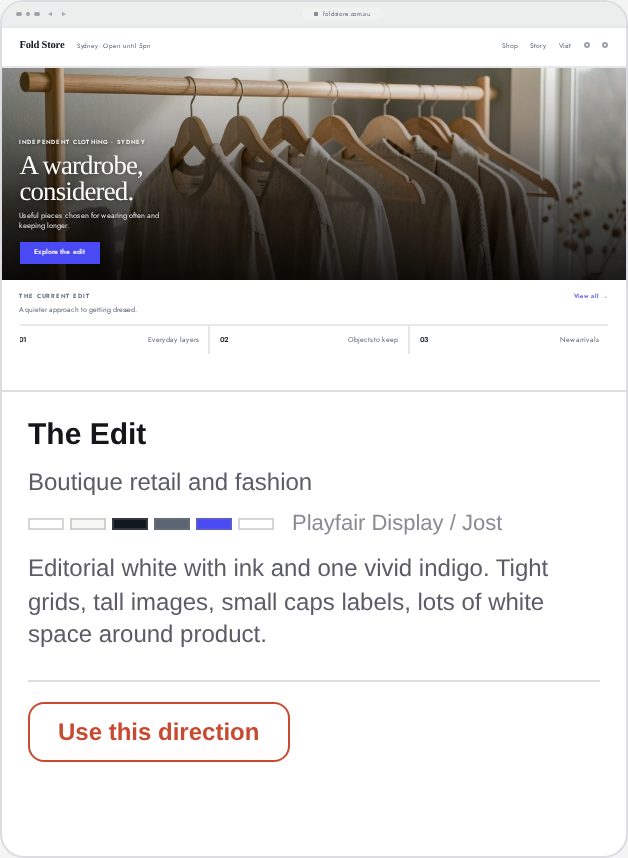
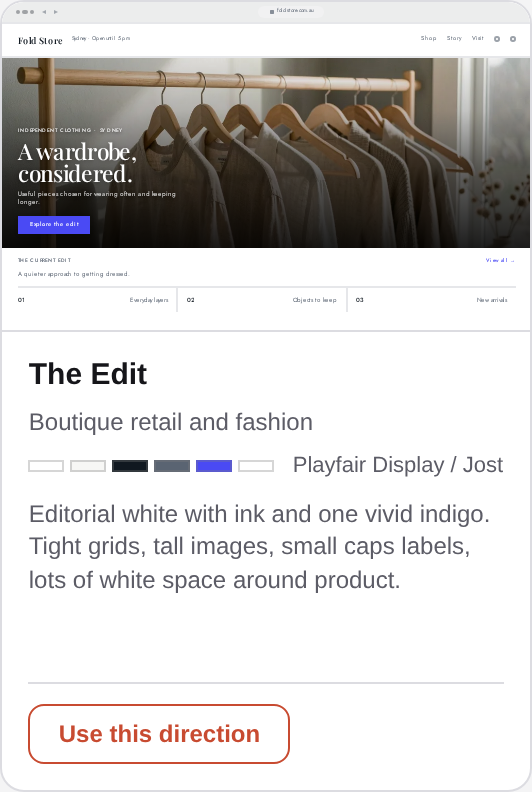
Make the direction cards tell the truth about type and the fold
An independent review of #39 found four things I had missed. Two of them were
visual defects rather than paperwork.

**Four catalogue families were never requested.** DM Sans, Hanken Grotesk,
Instrument Sans and IBM Plex Mono were dropped because the font stylesheet was
hand-maintained in two places and drifted from the catalogue, so three cards
rendered in fallback type — showing a direction the app would not produce. The
stylesheet is now derived from DIRECTIONS in src/main/fonts.ts, used by both the
panel and the evidence board, including the optional `detail` role that the first
pass skipped. A test fails if any catalogue family is missing from it, and
enumerating document.fonts proves all 21 are declared in the packaged app.
(document.fonts.check() cannot prove this: it returns true for an unknown family
because the browser falls back.)

**The card's font caption measured 3.42:1** on the light card — --faint, 11px,
real gallery metadata. It uses the secondary-text token instead and a test holds
it to 4.5:1 in both themes.

**"The next section is cut off by the card edge" was true for only three of ten
cards.** The hero is now sized against a minimum height for the next section, so
all ten continue past the fold. Measured in the packaged app: 10/10 straddle the
edge, 39–42px visible, 11–15px past it.

**The button label rule now lives in one place.** The preview uses onPrimary()
from src/main/directions.ts — the same function that writes a generated site's
[…]

diff --git a/src/main/fonts.ts b/src/main/fonts.ts
@@ -1,0 +1,98 @@
+import { DIRECTIONS } from './directions';
+
+/**
+ * The faces the design directions are built from, and the stylesheet that loads
+ * them.
+ *
+ * The direction cards render real type in each direction's own fonts, so every
+ * family the catalogue names has to be on the page or the card lies about how
+ * that direction looks. Two hand-maintained font lists drifted from the
+ * catalogue and dropped DM Sans, Hanken Grotesk, Instrument Sans and IBM Plex
+ * Mono. This derives the list from `DIRECTIONS` instead, and the tests assert
+ * the stylesheet covers the catalogue.
+ */
+
+/** Families already requested by the app's own interface stylesheet. */
+const APP_FONTS = [
+  'Anton',
+  'Archivo',
+  'Archivo Black',
+  'Bitter',
+  'Bodoni Moda',
+  'Bricolage Grotesque',
+  'Cormorant Garamond',
+  'EB Garamond',
+  'Figtree',
+  'Fraunces',
+  'Geist',
+  'Instrument Serif',
+  'Jost',
+  'Karla',
+  'Libre Franklin',
+  'Lora',
+  'Manrope',
+  'Newsreader',
+  'Nunito',
+  'Playfair Display',
+  'Public Sans',
+  'Space Grotesk',
+  'Syne',
+  'Work Sans',
+  'Young Serif',
+];
+
+export type FontUse = { family: string; weights: number[] };
+
+/** Every family and weight the catalogue's directions use, unioned. */
+export function directionFontUses(): FontUse[] {
+  const uses = new Map<string, Set<number>>();
+  for (const direction of DIRECTIONS) {
+    // Every role the catalogue declares, including the optional `detail` face —
+    // skipping it is how IBM Plex Mono went missing.
+    for (const role of [
+      direction.fonts.display,
+      direction.fonts.body,
+      direction.fonts.detail,
+    ]) {
+      if (!role) continue;
+      const weights = uses.get(role.family) ?? new Set<number>();
+      for (const weight of role.weights) weights.add(weight);
+      uses.set(role.family, weights);
+    }
+  }
+  return [...uses.entries()]
+    .map(([family, weights]) => ({
+      family,
+      weights: [...weights].sort((a, b) => a - b),
+    }))
+    .sort((a, b) => a.family.localeCompare(b.family));
+}
+
+const familyParameter = (use: FontUse): string => {
+  const name = use.family.replace(/ /g, '+');
+  return use.weights.length > 0
+    ? `family=${name}:wght@${use.weights.join(';')}`
+    : `family=${name}`;
+};
+
+/** The stylesheet the direction cards need, whatever the base list already has. */
+export function directionFontsHref(base: string): string {
+  const requested = new Set(
+    [...base.matchAll(/family=([^&:]+)/g)].map((m) => m[1].replace(/\+/g, ' ')),
+  );
+  const missing = directionFontUses().filter((u) => !requested.has(u.family));
+  if (missing.length === 0) return base;
+  return `${base}&${missing.map(familyParameter).join('&')}`;
+}
+
+/** Families the catalogue needs that a stylesheet does not load. Empty is correct. */
+export function missingDirectionFamilies(href: string): string[] {
+  const requested = new Set(
+    [...href.matchAll(/family=([^&:]+)/g)].map((m) => m[1].replace(/\+/g, ' ')),
+  );
+  return directionFontUses()
+    .map((u) => u.family)
+    .filter((family) => !requested.has(family));
+}
+
+export { APP_FONTS };

diff --git a/src/components/DirectionMiniSite.tsx b/src/components/DirectionMiniSite.tsx
@@ -15,7 +15,7 @@
  */
 import type { CSSProperties } from 'react';
 import { directionImages } from '../assets/directions';
-import { contrastRatio, parseColour } from '../main/contrast';
+import { onPrimary as onPrimaryFor } from '../main/directions';
 import type { CauldronDirectionSummary } from '../cauldron-types';
 
 type Sample = {
@@ -257,20 +257,6 @@ const FALLBACK: Sample = {
   meta: 'Your suburb · Open today',
 };
 
-/**
- * The label colour a filled control needs. The renderer summary carries the
- * catalogue colours but not the computed `on-primary`, so a direction whose
- * primary is white (Niki Studio) would otherwise get white text on a white
- * button. Same rule as `onPrimary()` in src/main/directions.ts, which writes
- * the tokens a generated site uses.
- */
-function labelOn(fill: string, fallback: string): string {
-  if (!parseColour(fill)) return fallback;
-  return contrastRatio('#ffffff', fill) >= contrastRatio('#000000', fill)
-    ? '#ffffff'
-    : '#000000';
-}
-
 export function DirectionMiniSite({
   direction,
 }: {
@@ -289,7 +275,9 @@ export function DirectionMiniSite({
   const accent = colours.accent ?? colours.primary ?? ink;
   const primary = colours.primary ?? ink;
   const accentText = colours['primary-text'] ?? primary;
-  const onPrimary = colours['on-primary'] ?? labelOn(primary, ink);
+  // Same rule the app writes into a site's tokens (`tokensCss`): a white
+  // primary gets black text, not white on white.
+  const onPrimary = colours['on-primary'] ?? onPrimaryFor(primary);
   const radius =
     shape.control === 'pill'
       ? '999px'

diff --git a/scripts/directions-board-entry.tsx b/scripts/directions-board-entry.tsx
@@ -7,6 +7,7 @@ import fs from 'node:fs';
 import path from 'node:path';
 import { renderToStaticMarkup } from 'react-dom/server';
 import { DIRECTIONS } from '../src/main/directions';
+import { directionFontsHref } from '../src/main/fonts';
 import { DirectionMiniSite } from '../src/components/DirectionMiniSite';
 
 // Set by scripts/directions-board.mjs: the bundle runs from node_modules/.cache,
@@ -96,7 +97,7 @@ const html = `<!doctype html>
 <title>Cauldron — design directions board</title>
 <link rel="preconnect" href="https://fonts.googleapis.com">
 <link rel="preconnect" href="https://fonts.gstatic.com" crossorigin>
-<link href="https://fonts.googleapis.com/css2?family=Archivo:wght@400;500;600;700&family=Archivo+Black&family=Bodoni+Moda:opsz,wght@6..96,400..700&family=Bricolage+Grotesque:opsz,wght@12..96,400..700&family=EB+Garamond:wght@400;600;700&family=Figtree:wght@400;600&family=Geist:wght@400;600;700&family=Instrument+Serif&family=Jost:wght@400;500;600&family=Manrope:wght@400;600;700&family=Nunito:wght@400;600;700&family=Space+Grotesk:wght@400;600;700&family=Syne:wght@400;700;800&family=Young+Serif&display=swap" rel="stylesheet">
+<link href="${directionFontsHref('https://fonts.googleapis.com/css2?family=Archivo:wght@400;500;600;700&family=Archivo+Black&display=swap')}" rel="stylesheet">
 <style>${css}</style>
 </head><body class="app">${renderToStaticMarkup(<Board />)}</body></html>`;
 

diff --git a/src/index.css b/src/index.css
@@ -1340,7 +1340,9 @@ textarea:focus-visible {
 .dm-side .dm-photo {
   flex: 0.9;
   min-width: 0;
-  height: 31cqw;
+  /* Sized with the next section below so the page runs a comfortable way past
+     the 16:10 frame instead of ending flush inside it. */
+  height: 30cqw;
   border-radius: calc(var(--dm-radius) / 2);
 }
 
@@ -1353,7 +1355,7 @@ textarea:focus-visible {
 .dm-overlay .dm-hero {
   position: relative;
   padding: 0;
-  height: 34cqw;
+  height: 36cqw;
   overflow: hidden;
 }
 
@@ -1406,7 +1408,11 @@ textarea:focus-visible {
 
 /* The beginning of the next section, clipped by the card. */
 .dm-next {
+  /* Guarantees the section continues past the frame on every card, whatever
+     its content: the whole point of the card is a page running past the fold,
+     and content-sized sections used to end flush inside the card. */
   flex: none;
+  min-height: 21cqw;
   padding: 2cqw 2.8cqw 0;
 }
 
@@ -1499,7 +1505,10 @@ textarea:focus-visible {
 }
 .direction-token-strip-fonts {
   margin-left: 6px;
-  color: var(--faint);
+  /* Gallery metadata, not decoration: --faint measures 3.42:1 on the light
+     card, so it uses the secondary-text token, which clears 4.5:1 in both
+     themes. */
+  color: var(--muted);
   font-size: 11px;
   line-height: 1.35;
   white-space: normal;

diff --git a/src/components/DesignPanel.tsx b/src/components/DesignPanel.tsx
@@ -1,8 +1,11 @@
 import { useEffect, useState } from 'react';
+import { directionFontsHref } from '../main/fonts';
 import { DirectionMiniSite } from './DirectionMiniSite';
 
-export const SPECIMEN_GOOGLE_FONTS_URL =
+const APP_FONTS_URL =
   'https://fonts.googleapis.com/css2?family=Anton&family=Archivo:wght@400;500;600;700&family=Archivo+Black&family=Bitter:wght@400;600&family=Bodoni+Moda:ital,opsz,wght@0,6..96,400..700;1,6..96,400..700&family=Bricolage+Grotesque:opsz,wght@12..96,400..700&family=Cormorant+Garamond:wght@400;600;700&family=EB+Garamond:wght@400;600;700&family=Figtree:wght@400;600&family=Fraunces:opsz,wght@9..144,400..700&family=Geist:wght@400;600;700&family=Instrument+Serif:ital@0;1&family=Jost:wght@400;500;600&family=Karla:wght@400;500;600&family=Libre+Franklin:wght@400;600&family=Lora:ital,wght@0,400..700;1,400..700&family=Manrope:wght@400;600;700&family=Newsreader:opsz,wght@6..72,400..700&family=Nunito:wght@400;600;700&family=Playfair+Display:ital,wght@0,400..700;1,400..700&family=Public+Sans:wght@400;500;600&family=Space+Grotesk:wght@400;600;700&family=Syne:wght@400;700;800&family=Work+Sans:wght@400;500;600&family=Young+Serif&display=swap';
+
+export const SPECIMEN_GOOGLE_FONTS_URL = directionFontsHref(APP_FONTS_URL);
 
 type Props = {
   site: CauldronSite | null;

diff --git a/docs/directions-audit/README.md b/docs/directions-audit/README.md
@@ -6,16 +6,19 @@ component and the real direction data — not a mock-up drawn alongside them.
 ## What the cards are
 
 Each card renders a small page in the direction's own tokens: browser chrome,
-navigation with hours and utility icons, hero (photograph beside the copy, or
-full-bleed behind it), the call to action, and the start of the next section cut
-off by the card edge. Ten directions, ten different businesses, so the choice is
-made by looking at a site rather than a palette.
+navigation with the business's hours and utility icons, hero (photograph beside
+the copy, or full-bleed behind it), the call to action, and the start of the next
+section running past the card's bottom edge the way a real page runs past the
+fold. Ten directions, ten businesses, so the choice is made by looking at a site
+rather than a palette.
 
 - `src/components/DirectionMiniSite.tsx` — the preview. Content, shape language
   (control radius, hero type, caps, alignment) and the fictional businesses are
   data in this file, keyed by the app's direction ids.
 - `src/assets/directions/` — one generated photograph per direction, matched to
   the business each direction was designed for.
+- `src/main/fonts.ts` — the stylesheet the cards need, derived from `DIRECTIONS`
+  so a family the catalogue names cannot be left off the page.
 - `scripts/directions-board-entry.tsx` + `scripts/directions-board.mjs` — renders
   the whole board to one static page from the real component, so the cards can be
   captured without launching the app.
@@ -28,6 +31,29 @@ node scripts/directions-board.mjs            # → docs/directions-audit/board.h
 
 `board.html` is generated and not committed (it inlines the photographs).
 
+## Measured, from the packaged app
+
+Read out of the running app over CDP (`out/Cauldron-darwin-arm64`), not by eye:
+
+| Check                                   | Result                                                       |
+| --------------------------------------- | ------------------------------------------------------------ |
+| Cards rendering                         | 10, each with its own preview                                |
+| Photographs decoded                     | 10 / 10 (`naturalWidth > 0`)                                 |
+| Next section running past the card edge | 10 / 10 (39–42px visible, 11–15px past the edge)             |
+| Button label contrast against its fill  | 4.98:1 – 21:1; Niki Studio's white fill now takes black text |
+| Catalogue typefaces loaded              | 21 / 21 (`document.fonts.check`)                             |
+| Font caption contrast                   | 6.61:1 on the light card (was 3.42:1 on `--faint`)           |
+
+`document.fonts.check()` is not usable as proof here: it returns true for a
+family that was never requested, because the browser silently falls back. The
+faces are enumerated from `document.fonts` instead, and the stylesheet itself is
+guarded by a test.
+
+Guards for the type, button-label and caption cases live in `scripts/test-core.mjs`
+(`WDL-265 every direction's fonts are requested…`, `WDL-265 a card button label is
+always readable on its fill`, `WDL-265 the card's font caption meets text contrast
+in both themes`).
+
 ## Files
 
 | File                                                   | What it shows                                                           |
@@ -36,5 +62,8 @@ node scripts/directions-board.mjs            # → docs/directions-audit/board.h
 | `card-0.png`, `card-2.png`, `card-4.png`, `card-9.png` | single cards: side-photo and overlay heroes, caps and loud display type |
 | `app-design-screen.png`                                | the packaged app's Design directions screen with a site open            |
 
-Captured on 22 November 2026 from the packaged `Cauldron.app` and from the board
-page rendered in headless Chromium in the E2B sandbox.
+Captured on 22 November 2026 from the revision that merged as `cauldron#40`,
+using the packaged app and the board page rendered in headless Chromium in the
+E2B sandbox. The photographs were generated with the FAL API rather than the
+sanctioned `image_generate` tool; Billy kept them, and image work goes through
+`image_generate` from here.
